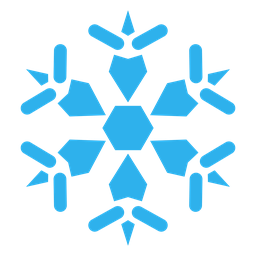
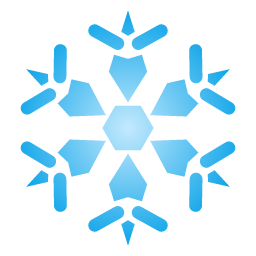
fix(client): bake the BrandMark gradient into the nametag badge
Style 0 used a flat #2EB1EC SVG fill, so the snowflake next to nametags
(and in the tab list and picker) had no white-centre-to-ice-blue-tips
gradient. The 256, 64, and 72 style-0 textures are now BrandMark rasters;
the 72 px tab picture still goes through tab_art so thin arms survive
nearest sampling. Ice and line styles, glyph size, and draw paths are
unchanged.

diff --git a/mod/tools/brand_mark.py b/mod/tools/brand_mark.py
@@ -1,0 +1,98 @@
+"""The official Arctic snowflake raster (same pixels as BrandMark.java / icon_raster.rs)."""
+import math
+from PIL import Image
+
+PI, TAU = math.pi, 2 * math.pi
+INNER = (196.0, 234.0, 254.0)
+OUTER = (14.0, 165.0, 233.0)
+SS = 4
+KITE = [(0.0, -0.46), (0.075, -0.22), (0.0, -0.10), (-0.075, -0.22)]
+NOTCH = [
+    (0.0, -0.36),
+    (0.10, -0.42),
+    (0.10, -0.30),
+    (0.0, -0.27),
+    (-0.10, -0.30),
+    (-0.10, -0.42),
+]
+BARBS = [(0.04, -0.33, 0.13, -0.38), (-0.04, -0.33, -0.13, -0.38)]
+BARB_WIDTH = 0.05
+CORE_RADIUS = 0.10
+GRADIENT_RADIUS = 0.46
+MAX_SIZE = 1024
+
+_CACHE: dict[int, Image.Image] = {}
+
+
+def point_in_polygon(x, y, poly):
+    inside = False
+    j = len(poly) - 1
+    for i, (xi, yi) in enumerate(poly):
+        xj, yj = poly[j]
+        if (yi > y) != (yj > y) and x < (xj - xi) * (y - yi) / ((yj - yi) or 1e-12) + xi:
+            inside = not inside
+        j = i
+    return inside
+
+
+def dist_to_segment(px, py, ax, ay, bx, by):
+    abx, aby = bx - ax, by - ay
+    len_sq = max(abx * abx + aby * aby, 1e-12)
+    t = max(0.0, min(1.0, ((px - ax) * abx + (py - ay) * aby) / len_sq))
+    return math.hypot(ax + abx * t - px, ay + aby * t - py)
+
+
+def inside_hexagon(u, v, r):
+    corners = [(r * math.cos(k * PI / 3.0), r * math.sin(k * PI / 3.0)) for k in range(6)]
+    return point_in_polygon(u, v, corners)
+
+
+def inside_mark(u, v):
+    if inside_hexagon(u, v, CORE_RADIUS):
+        return True
+    for k in range(6):
+        a = -k * TAU / 6.0
+        s, c = math.sin(a), math.cos(a)
+        lu, lv = u * c - v * s, u * s + v * c
+        blade = point_in_polygon(lu, lv, KITE) and not point_in_polygon(lu, lv, NOTCH)
+        barb = any(
+            dist_to_segment(lu, lv, x0, y0, x1, y1) <= BARB_WIDTH / 2.0
+            for x0, y0, x1, y1 in BARBS
+        )
+        if blade or barb:
+            return True
+    return False
+
+
+def clamp_size(size: int) -> int:
+    return max(1, min(MAX_SIZE, int(size)))
+
+
+def native(size: int) -> Image.Image:
+    size = clamp_size(size)
+    if size in _CACHE:
+        return _CACHE[size].copy()
+    n = float(size)
+    buf = bytearray(size * size * 4)
+    i = 0
+    for y in range(size):
+        for x in range(size):
+            hits = 0
+            for sy in range(SS):
+                for sx in range(SS):
+                    u = (x + (sx + 0.5) / SS) / n - 0.5
+                    v = (y + (sy + 0.5) / SS) / n - 0.5
+                    if inside_mark(u, v):
+                        hits += 1
+            coverage = hits / (SS * SS)
+            cx = (x + 0.5) / n - 0.5
+            cy = (y + 0.5) / n - 0.5
+            t = min(1.0, max(0.0, math.hypot(cx, cy) / GRADIENT_RADIUS))
+            r = INNER[0] + (OUTER[0] - INNER[0]) * t
+            g = INNER[1] + (OUTER[1] - INNER[1]) * t
+            b = INNER[2] + (OUTER[2] - INNER[2]) * t
+            buf[i : i + 4] = bytes((int(r), int(g), int(b), int(coverage * 255)))
+            i += 4
+    im = Image.frombytes("RGBA", (size, size), bytes(buf))
+    _CACHE[size] = im
+    return im.copy()

diff --git a/mod/tools/make_badges.py b/mod/tools/make_badges.py
@@ -1,4 +1,5 @@
-"""Rasterize the three picked round-3 badges, using the official Arctic mark.
+"""Rasterize the three picked badges. Style 0 is BrandMark (the official Arctic mark);
+ice and line still come from their SVG sources.
 
 SVG sources are reviewable beside this script. Picker art keeps the sheet's
 3-unit outline; tag/tab variants use 7 units (1.75/1.97 framebuffer px at GUI
@@ -12,6 +13,7 @@ from pathlib import Path
 import cairosvg
 from PIL import Image
 from badge_tab import tab_art
+from brand_mark import native
 
 MOD = Path(__file__).resolve().parents[1]
 ASSETS = MOD / 'core/src/main/resources/assets'
@@ -22,14 +24,22 @@ for name, style in STYLES:
     svg = (MOD / 'tools/badges' / (name + '.svg')).read_text()
     def raster(source):
         return Image.open(io.BytesIO(cairosvg.svg2png(bytestring=source.encode(), output_width=1024, output_height=1024))).convert('RGBA')
-    im = raster(svg)
-    im.resize((256, 256), Image.Resampling.LANCZOS).save(ROOT / (name + '.png'))
-    small_art = raster(svg.replace('stroke-width="3"', 'stroke-width="7"')) if style == 2 else im
+    if style == 0:
+        im = native(256)
+        small_art = native(1024)
+        im.save(ROOT / (name + '.png'))
+    else:
+        im = raster(svg)
+        small_art = raster(svg.replace('stroke-width="3"', 'stroke-width="7"')) if style == 2 else im
+        im.resize((256, 256), Image.Resampling.LANCZOS).save(ROOT / (name + '.png'))
     for tab, height, ascent in [(False, 8, 7), (True, 9, 8)]:
         font = name + ('_tab' if tab else '')
         size = height * 8
         # The logo's player list picture is pre-filtered onto a coarse grid (see badge_tab.py).
-        small = tab_art(small_art) if tab and style == 0 else small_art.resize((size, size), Image.Resampling.LANCZOS)
+        if style == 0:
+            small = tab_art(small_art) if tab else native(size)
+        else:
+            small = small_art.resize((size, size), Image.Resampling.LANCZOS)
         small.save(ROOT / 'textures/font' / (font + '.png'))
         small.save(ROOT / (name + ('_tab' if tab else '_tag') + '.png'))
         bitmap = dict(type='bitmap', file='arctic:font/' + font + '.png', height=height, ascent=ascent, chars=['\uE000'])

diff --git a/mod/core/src/test/java/com/arcticlauncher/client/gfx/BadgeBrandTest.java b/mod/core/src/test/java/com/arcticlauncher/client/gfx/BadgeBrandTest.java
@@ -1,0 +1,49 @@
+package com.arcticlauncher.client.gfx;
+
+import java.awt.image.BufferedImage;
+import javax.imageio.ImageIO;
+import org.junit.jupiter.api.Test;
+import static org.junit.jupiter.api.Assertions.*;
+
+/** Style 0 nametag/tab/picker art is the BrandMark gradient, not the flat SVG fill. */
+class BadgeBrandTest {
+	@Test
+	void pickerAndNametagMatchBrandMark() throws Exception {
+		assertArrayEquals(BrandMark.raster(256), pixels("/assets/arctic/badge.png", 256));
+		assertArrayEquals(BrandMark.raster(64), pixels("/assets/arctic/badge_tag.png", 64));
+		assertArrayEquals(BrandMark.raster(64), pixels("/assets/arctic/textures/font/badge.png", 64));
+	}
+
+	@Test
+	void tabPictureIsThePrefilteredMark() throws Exception {
+		int[] tab = pixels("/assets/arctic/badge_tab.png", 72);
+		assertArrayEquals(tab, pixels("/assets/arctic/textures/font/badge_tab.png", 72));
+		// A nearly-invisible last-column texel keeps the glyph 9 px wide.
+		assertTrue((tab[36 * 72 + 71] >>> 24) > 0);
+		// Not the old flat #2EB1EC fill: the 18-grid body still carries the BrandMark gradient
+		// (centre near-white, tips ice-blue).
+		int center = tab[36 * 72 + 36];
+		int cr = (center >> 16) & 255, cg = (center >> 8) & 255, cb = center & 255;
+		assertTrue(cr > 150 && cg > 200 && cb > 230, "tab centre should be near-white ice");
+		int distinct = 0;
+		boolean[] seen = new boolean[1 << 24];
+		for (int argb : tab) {
+			if ((argb >>> 24) < 200) {
+				continue;
+			}
+			int key = argb & 0xFFFFFF;
+			if (!seen[key]) {
+				seen[key] = true;
+				distinct++;
+			}
+		}
+		assertTrue(distinct >= 8, "tab badge should carry the BrandMark gradient");
+	}
+
+	private static int[] pixels(String path, int size) throws Exception {
+		BufferedImage im = ImageIO.read(BadgeBrandTest.class.getResourceAsStream(path));
+		assertEquals(size, im.getWidth());
+		assertEquals(size, im.getHeight());
+		return im.getRGB(0, 0, size, size, null, 0, size);
+	}
+}
